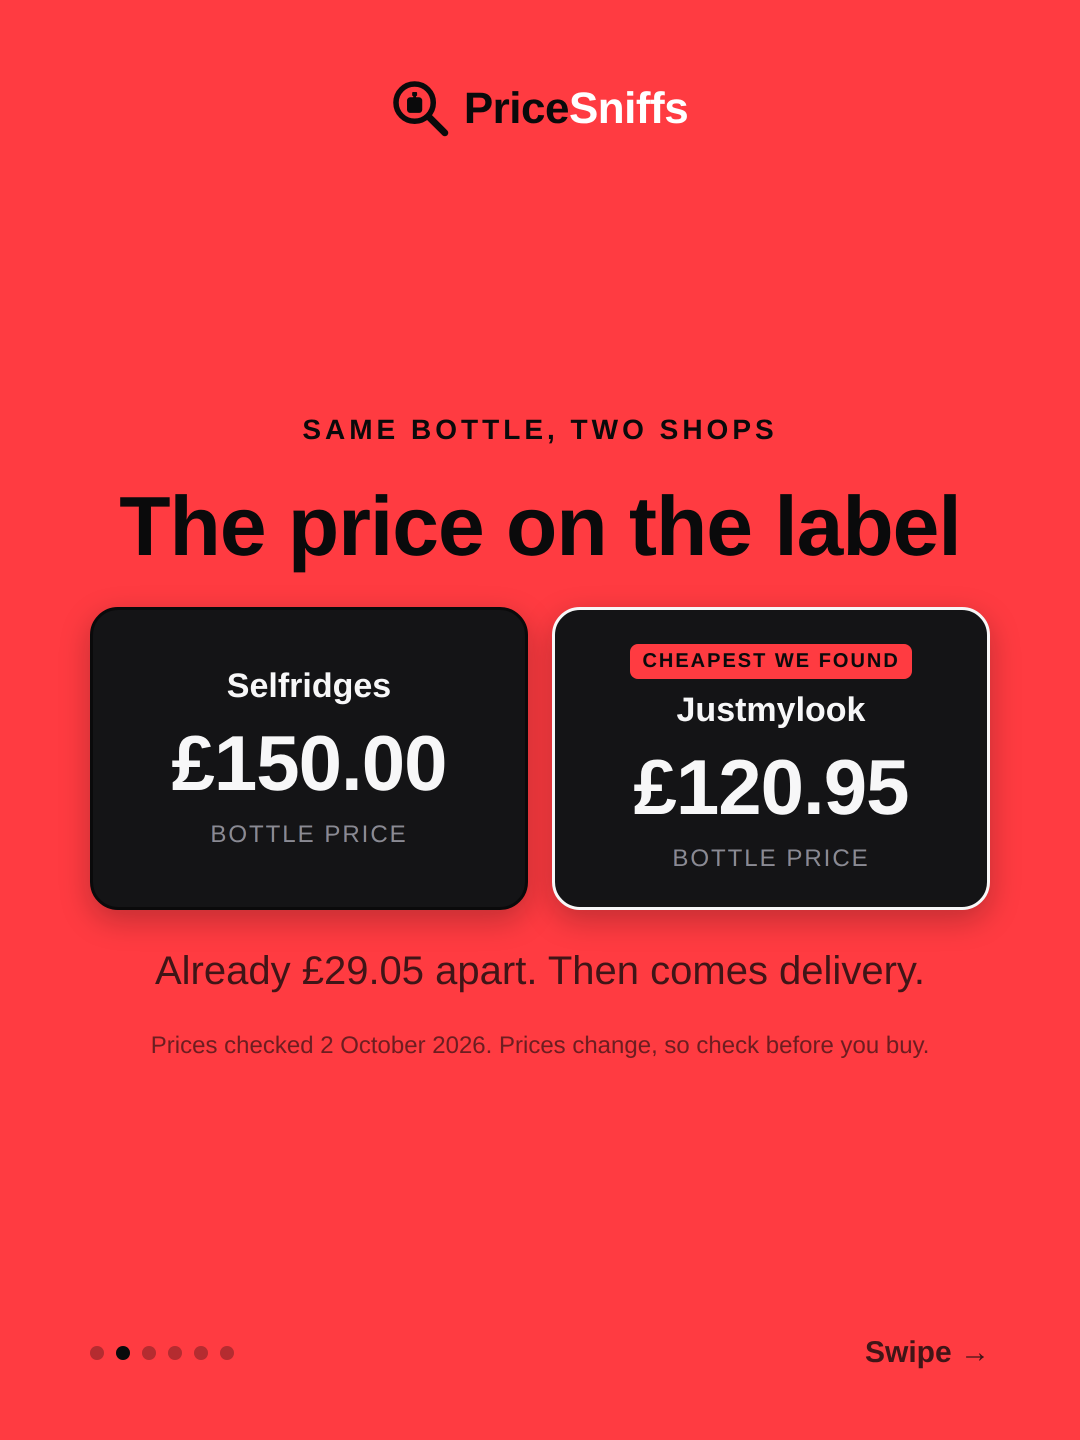
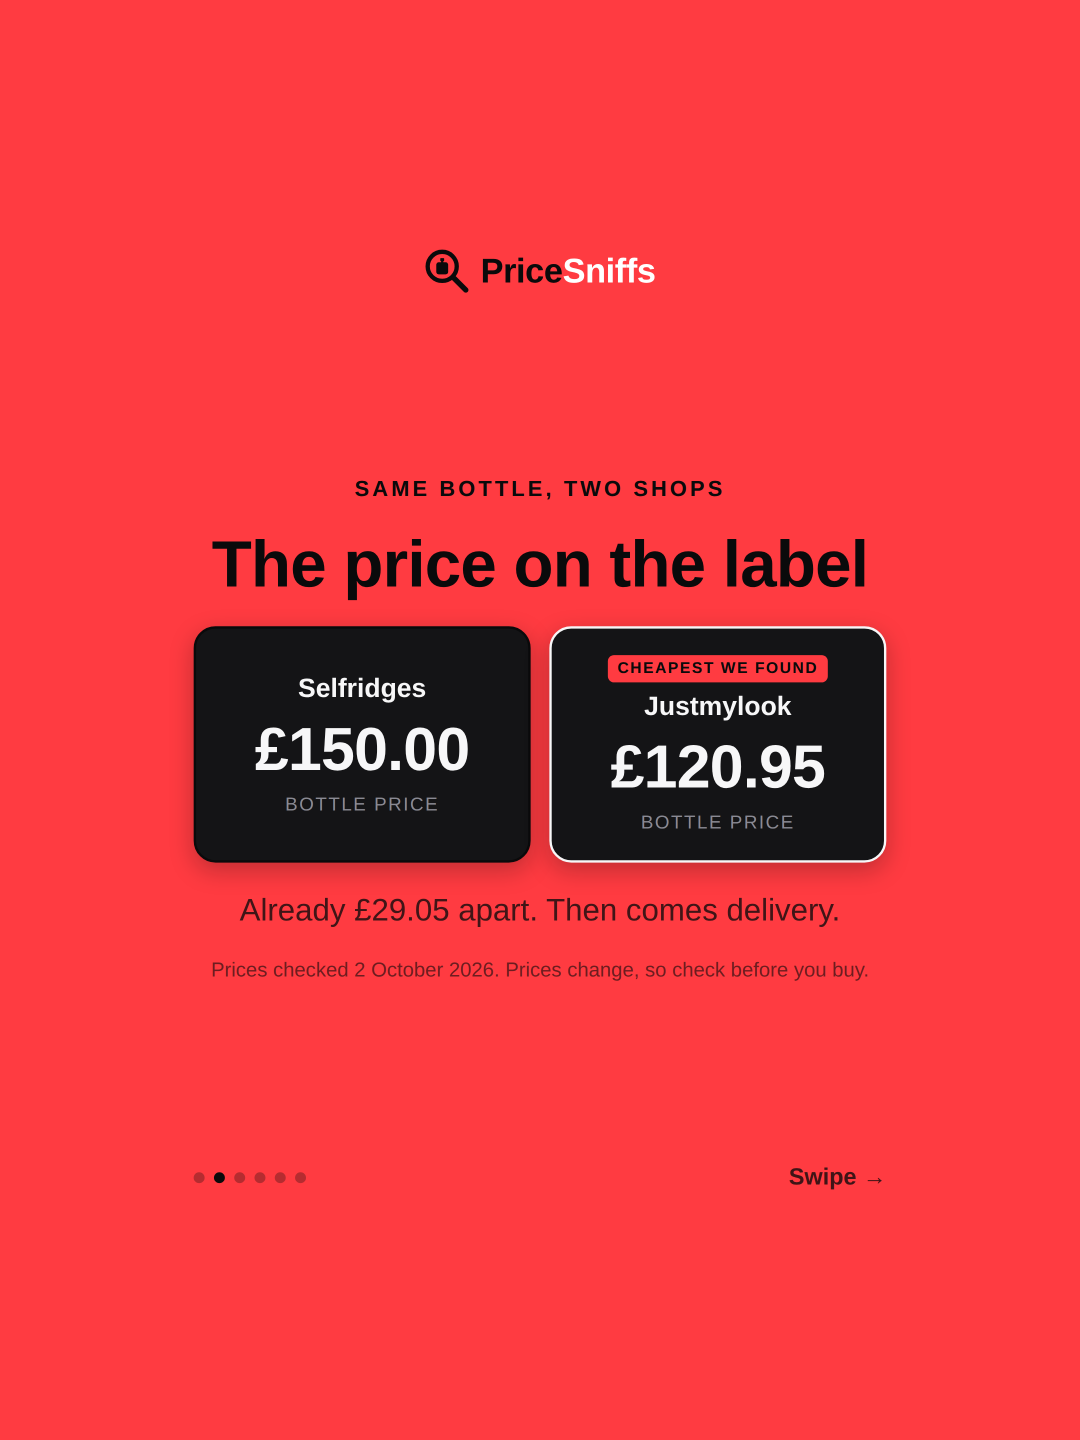
Social: reel safe savings carousels
Everything on a savings slide now sits inside the part of the 3:4 slide
that survives Instagram's crops if the carousel becomes a reel (Edits
fills 9:16 and cuts the sides; the feed shows reels at 4:5). Both savings
carousels (Miss Dior, Creed Acqua Fiorentina) are redrawn this way, and
the Miss Dior script is back so it can be remade.

Claude-Session: https://claude.ai/code/session_01R3frsh37eDNrxM6REtigC8

diff --git a/scripts/social-savings-example.ts b/scripts/social-savings-example.ts
@@ -1,0 +1,156 @@
+/**
+ * "How much could you save?" carousel: one real comparison, six 3:4 feed
+ * slides plus the caption. A one off post, so it uses the INVERTED theme
+ * (social/DESIGN-SYSTEM.md section 1).
+ *
+ * Every figure is a real price from the site's own data on the date below,
+ * read back from each shop's live listing where the shop allows it:
+ *   Justmylook   £120.95, free delivery (over £25), live price confirmed 2 Oct 2026
+ *   Selfridges   £150.00 plus £6.95 standard delivery (free delivery is for paid
+ *                Selfridges+ / Unlocked members only), from the site's last check;
+ *                Selfridges blocks automated reads, so confirm by hand before posting.
+ * The comparison is the two shops PriceSniffs compares, not every UK shop.
+ *
+ *   npx tsx scripts/social-savings-example.ts
+ */
+import { execFileSync } from 'node:child_process';
+import { mkdirSync, writeFileSync } from 'node:fs';
+import { join, resolve } from 'node:path';
+import { launchChromium } from './a11y-audit.js';
+import { renderSmooth } from './socialRender.js';
+import { H, MARK, W, slide } from './socialSlides.js';
+import { resizedPhotoUrl } from '../demo/photo.js';
+
+const ROOT = resolve(import.meta.dirname, '..');
+const DIR = join(ROOT, 'social', 'posts', '2026-10-02-savings-example');
+const TOTAL = 6;
+
+const DEAL = {
+  name: 'Miss Dior Eau de Parfum 100ml',
+  brand: 'Dior',
+  photo: 'https://www.justmylook.com/cdn/shop/files/DIOR0043_3c589c3b-ad80-4c66-b419-086d3af769e6.png?v=1758900971&width=3000',
+  dear: { shop: 'Selfridges', item: 150, delivery: 6.95, deliveryNote: 'Free delivery is for paid members only' },
+  cheap: { shop: 'Justmylook', item: 120.95, delivery: 0, deliveryNote: 'Free delivery over £25' },
+  checked: '2 October 2026',
+};
+const gbp = (n: number) => `£${n.toFixed(2)}`;
+const dearTotal = DEAL.dear.item + DEAL.dear.delivery;
+const cheapTotal = DEAL.cheap.item + DEAL.cheap.delivery;
+const saving = Math.round((dearTotal - cheapTotal) * 100) / 100;
+const percent = Math.round((saving / dearTotal) * 100);
+const year = Math.round(saving * 12 * 100) / 100;
+
+function photoDataUri(url: string): string {
+  const out = execFileSync('curl', ['-sSL', '--max-time', '30', '-w', '\n%{content_type}', resizedPhotoUrl(url, 800) ?? url], { maxBuffer: 64 * 1024 * 1024 });
+  const cut = out.lastIndexOf(0x0a);
+  return `data:${out.subarray(cut + 1).toString().trim()};base64,${out.subarray(0, cut).toString('base64')}`;
+}
+
+const EXTRA = `
+  .photo { width: 440px; height: 440px; border-radius: 36px; background: #FFFFFF; display: flex; align-items: center; justify-content: center; }
+  .photo img { width: 86%; height: 86%; object-fit: contain; }
+  .who { display: flex; flex-direction: column; gap: 10px; }
+  .who .name { margin: 0; font-size: 52px; font-weight: 700; }
+  .who .brand { margin: 0; font-size: 30px; letter-spacing: 4px; text-transform: uppercase; color: var(--ink-2); }
+  .vs { width: 100%; display: flex; gap: 24px; }
+  .shopcard { flex: 1 1 0; min-width: 0; padding: 34px 26px; border-radius: 28px; background: var(--card); border: 3px solid var(--card-line);
+    box-shadow: 0 10px 30px rgba(10,10,11,0.25); color: var(--card-ink); display: flex; flex-direction: column; align-items: center; justify-content: center; gap: 12px; }
+  .shopcard.win { border-color: #F7F7F8; }
+  .shopcard .s { margin: 0; font-size: 34px; font-weight: 700; }
+  .shopcard .p { margin: 0; font-size: 78px; font-weight: 700; letter-spacing: -1px; }
+  .shopcard .l { margin: 0; font-size: 24px; letter-spacing: 2px; text-transform: uppercase; color: var(--card-ink-3); }
+  .shopcard .win-tag { font-size: 20px; font-weight: 700; letter-spacing: 2px; color: #0A0A0B; background: #FF3B41; border-radius: 8px; padding: 6px 12px; }
+  .sum { width: 100%; display: flex; flex-direction: column; gap: 24px; }
+  .sumcard { padding: 28px 34px; border-radius: 28px; background: var(--card); box-shadow: 0 10px 30px rgba(10,10,11,0.25); color: var(--card-ink); text-align: left; }
+  .sumcard.win { outline: 3px solid #F7F7F8; outline-offset: -3px; }
+  .sumcard .s { margin: 0 0 14px; font-size: 34px; font-weight: 700; display: flex; justify-content: space-between; align-items: center; }
+  .line { display: flex; justify-content: space-between; font-size: 32px; color: var(--card-ink-2); margin: 6px 0; }
+  .line.total { color: var(--card-ink); font-weight: 700; font-size: 40px; border-top: 2px solid var(--row-line); padding-top: 12px; margin-top: 12px; }
+  .line .plus { color: #FF3B41; font-weight: 700; }
+  .line .free { color: #4FB47B; font-weight: 700; }
+  .note2 { margin: 6px 0 0; font-size: 24px; color: var(--card-ink-3); }
+  .big { margin: 0; font-size: 200px; font-weight: 700; letter-spacing: -6px; line-height: 1; }
+  .big small { font-size: 0.5em; letter-spacing: -2px; }
+  .lead { margin: 0; font-size: 46px; font-weight: 700; }
+  .fine { margin: 0; font-size: 24px; color: var(--ink-3); }
+  .stack { display: flex; flex-direction: column; align-items: center; gap: 22px; }
+  .pill { padding: 22px 52px; border-radius: 999px; background: var(--pill-bg); color: var(--pill-ink); font-size: 46px; font-weight: 700; }
+  .badge { display: inline-block; padding: 14px 30px; border-radius: 999px; background: #0A0A0B; color: #F7F7F8; font-size: 40px; font-weight: 700; }
+`;
+const fine = `<p class="fine">Prices checked ${DEAL.checked}. Prices change, so check before you buy.</p>`;
+
+async function main() {
+  const photo = photoDataUri(DEAL.photo);
+  const SLIDES = [
+    `<p class="kicker">A real example</p>
+     <h1 data-fit="1,40">How much could you save?</h1>
+     <div class="photo"><img src="${photo}" alt=""></div>
+     <div class="who"><p class="name" data-fit="2,34">${DEAL.name}</p><p class="brand">${DEAL.brand}</p></div>`,
+    `<p class="kicker">Same bottle, two shops</p>
+     <h1 data-fit="1,40">The price on the label</h1>
+     <div class="vs">
+       <div class="shopcard"><p class="s">${DEAL.dear.shop}</p><p class="p" data-fit="1,40">${gbp(DEAL.dear.item)}</p><p class="l">Bottle price</p></div>
+       <div class="shopcard win"><span class="win-tag">CHEAPEST WE FOUND</span><p class="s">${DEAL.cheap.shop}</p><p class="p" data-fit="1,40">${gbp(DEAL.cheap.item)}</p><p class="l">Bottle price</p></div>
+     </div>
+     <p class="sub">Already ${gbp(DEAL.dear.item - DEAL.cheap.item)} apart. Then comes delivery.</p>
+     ${fine}`,
+    `<p class="kicker">Then comes delivery</p>
+     <h1 data-fit="1,40">We add it in for you</h1>
+     <div class="sum">
+       <div class="sumcard"><p class="s">${DEAL.dear.shop}</p>
+         <div class="line"><span>Bottle</span><span>${gbp(DEAL.dear.item)}</span></div>
+         <div class="line"><span>Delivery at checkout</span><span class="plus">+ ${gbp(DEAL.dear.delivery)}</span></div>
+         <div class="line total"><span>You pay</span><span>${gbp(dearTotal)}</span></div>
+         <p class="note2">${DEAL.dear.deliveryNote}</p></div>
+       <div class="sumcard win"><p class="s">${DEAL.cheap.shop}</p>
+         <div class="line"><span>Bottle</span><span>${gbp(DEAL.cheap.item)}</span></div>
+         <div class="line"><span>Delivery</span><span class="free">Free</span></div>
+         <div class="line total"><span>You pay</span><span>${gbp(cheapTotal)}</span></div></div>
+     </div>
+     <p class="sub">PriceSniffs shows the total before you click.</p>`,
+    `<p class="kicker">Your saving on one bottle</p>
+     <div class="stack">
+       <p class="big">${gbp(saving)}</p>
+       <span class="badge">${percent}% less</span>
+       <p class="sub">${gbp(dearTotal)} at ${DEAL.dear.shop}<br>${gbp(cheapTotal)} at ${DEAL.cheap.shop}</p>
+     </div>
+     ${fine}`,
+    `<p class="kicker">Buy one a month</p>
+     <h1 data-fit="1,40">That's a year of savings</h1>
+     <div class="stack">
+       <p class="big">${gbp(year).replace('.00', '')}</p>
+       <p class="lead">saved over 12 months</p>
+       <p class="sub">12 bottles × ${gbp(saving)} saved each</p>
+     </div>
+     <p class="fine">If you bought this bottle every month at today's prices.<br>Prices change, so check before you buy.</p>`,
+    `<p class="kicker">Find your own savings</p>
+     <h1 data-fit="1,40">Search any perfume</h1>
+     ${MARK('big-mark')}
+     <span class="pill">Link in bio</span>`,
+  ];
+  const caption = `How much could you save? 🇬🇧
+
+A real example from today. ${DEAL.name} by ${DEAL.brand} is ${gbp(DEAL.dear.item)} at ${DEAL.dear.shop}, and their standard delivery adds ${gbp(DEAL.dear.delivery)} at checkout, so you pay ${gbp(dearTotal)}. The same bottle is ${gbp(DEAL.cheap.item)} at ${DEAL.cheap.shop} with free delivery.
+
+That is ${gbp(saving)} saved on one bottle, ${percent}% less. Buy one a month at these prices and it adds up to ${gbp(year).replace('.00', '')} in a year.
+
+We show the total with delivery before you click, for more than 30 UK shops. Prices checked ${DEAL.checked} and they change, so check the link in our bio before you buy.
+
+#perfume #fragrance #missdior #perfumedeals #ukdeals #pricesniffs
+`;
+
+  mkdirSync(DIR, { recursive: true });
+  const browser = await launchChromium();
+  for (const [i, inner] of SLIDES.entries()) {
+    const html = slide(i + 1, TOTAL, inner, i + 1 === TOTAL ? '' : i === 0 ? 'Swipe to see &rarr;' : 'Swipe &rarr;', 'inverted', EXTRA, true);
+    const name = `slide-${i + 1}-3x4`;
+    writeFileSync(join(DIR, `${name}.html`), html.replace(photo, DEAL.photo));
+    await renderSmooth(browser, html, W, H, join(DIR, `${name}.png`));
+    console.log(`${name}.png`);
+  }
+  await browser.close();
+  writeFileSync(join(DIR, 'caption.txt'), caption);
+  console.log(`saving ${gbp(saving)} (${percent}%), year ${gbp(year)}`);
+}
+
+await main();

diff --git a/scripts/socialSlides.ts b/scripts/socialSlides.ts
@@ -77,9 +77,27 @@ export const slideCss = (theme: keyof typeof THEMES) => `
   .note { font-size: 20px; color: var(--card-ink-3); letter-spacing: 1px; text-transform: uppercase; }
 `;
 
-export function slide(n: number, total: number, inner: string, footRight: string, theme: keyof typeof THEMES = 'inverted', extraCss = ''): string {
+/**
+ * Reel safe box (social/DESIGN-SYSTEM.md section 4): the part of a 3:4 slide
+ * that survives every crop Instagram applies if the slides are turned into a
+ * reel. Edits fills a 9:16 frame with the slide, keeping the middle 810px of
+ * its width (x 135 to 945); the feed then shows the reel at 4:5 (y 214 to
+ * 1226) and the profile grid at 3:4 (y 180 to 1260). The box sits 15px
+ * inside all of those.
+ */
+export const SAFE = { x: 150, y: 230, w: 780, h: 980 };
+/** How much the slide's layout is scaled down to sit in the safe box. */
+const SAFE_SCALE = 0.78;
+// The padding keeps text clear of the crop edge; small print is set larger
+// so it stays readable after the scale down.
+const safeCss = `main { position: absolute; left: ${SAFE.x}px; top: ${SAFE.y}px; padding: 24px 56px;
+    width: ${Math.round(SAFE.w / SAFE_SCALE)}px; height: ${Math.round(SAFE.h / SAFE_SCALE)}px;
+    transform: scale(${SAFE_SCALE}); transform-origin: 0 0; }
+  main .fine, main .note2 { font-size: 26px; }`;
+
+export function slide(n: number, total: number, inner: string, footRight: string, theme: keyof typeof THEMES = 'inverted', extraCss = '', reelSafe = false): string {
   const dots = Array.from({ length: total }, (_, i) => `<i class="${i + 1 === n ? 'on' : ''}"></i>`).join('');
-  return `<!doctype html><html><head><meta charset="utf-8"><meta name="social-size" content="${W}x${H}"><style>${slideCss(theme)}${extraCss}</style></head><body><main>
+  return `<!doctype html><html><head><meta charset="utf-8"><meta name="social-size" content="${W}x${H}"><style>${slideCss(theme)}${reelSafe ? safeCss : ''}${extraCss}</style></head><body><main>
   <div class="brandline">${MARK('mark')}<span>Price<em>Sniffs</em></span></div>
   <div class="body">${inner}</div>
   <div class="foot"><div class="dots">${dots}</div><span class="swipe">${footRight}</span></div>

diff --git a/social/posts/2026-10-02-savings/slide-1-3x4.html b/social/posts/2026-10-02-savings/slide-1-3x4.html
@@ -40,7 +40,10 @@
   .price .bar { background: var(--bar-best); }
   .row:not(.best) .price .bar { background: var(--bar-rest); }
   .note { font-size: 20px; color: var(--card-ink-3); letter-spacing: 1px; text-transform: uppercase; }
-
+main { position: absolute; left: 150px; top: 230px; padding: 24px 56px;
+    width: 1000px; height: 1256px;
+    transform: scale(0.78); transform-origin: 0 0; }
+  main .fine, main .note2 { font-size: 26px; }
   .photo { width: 440px; height: 440px; border-radius: 36px; background: #FFFFFF; display: flex; align-items: center; justify-content: center; }
   .photo img { width: 86%; height: 86%; object-fit: contain; }
   .who { width: 100%; display: flex; flex-direction: column; gap: 10px; }

diff --git a/social/posts/2026-10-02-savings/slide-2-3x4.html b/social/posts/2026-10-02-savings/slide-2-3x4.html
@@ -40,7 +40,10 @@
   .price .bar { background: var(--bar-best); }
   .row:not(.best) .price .bar { background: var(--bar-rest); }
   .note { font-size: 20px; color: var(--card-ink-3); letter-spacing: 1px; text-transform: uppercase; }
-
+main { position: absolute; left: 150px; top: 230px; padding: 24px 56px;
+    width: 1000px; height: 1256px;
+    transform: scale(0.78); transform-origin: 0 0; }
+  main .fine, main .note2 { font-size: 26px; }
   .photo { width: 440px; height: 440px; border-radius: 36px; background: #FFFFFF; display: flex; align-items: center; justify-content: center; }
   .photo img { width: 86%; height: 86%; object-fit: contain; }
   .who { width: 100%; display: flex; flex-direction: column; gap: 10px; }

diff --git a/social/posts/2026-10-02-savings/slide-3-3x4.html b/social/posts/2026-10-02-savings/slide-3-3x4.html
@@ -40,7 +40,10 @@
   .price .bar { background: var(--bar-best); }
   .row:not(.best) .price .bar { background: var(--bar-rest); }
   .note { font-size: 20px; color: var(--card-ink-3); letter-spacing: 1px; text-transform: uppercase; }
-
+main { position: absolute; left: 150px; top: 230px; padding: 24px 56px;
+    width: 1000px; height: 1256px;
+    transform: scale(0.78); transform-origin: 0 0; }
+  main .fine, main .note2 { font-size: 26px; }
   .photo { width: 440px; height: 440px; border-radius: 36px; background: #FFFFFF; display: flex; align-items: center; justify-content: center; }
   .photo img { width: 86%; height: 86%; object-fit: contain; }
   .who { width: 100%; display: flex; flex-direction: column; gap: 10px; }

diff --git a/social/posts/2026-10-02-savings/slide-4-3x4.html b/social/posts/2026-10-02-savings/slide-4-3x4.html
@@ -40,7 +40,10 @@
   .price .bar { background: var(--bar-best); }
   .row:not(.best) .price .bar { background: var(--bar-rest); }
   .note { font-size: 20px; color: var(--card-ink-3); letter-spacing: 1px; text-transform: uppercase; }
-
+main { position: absolute; left: 150px; top: 230px; padding: 24px 56px;
+    width: 1000px; height: 1256px;
+    transform: scale(0.78); transform-origin: 0 0; }
+  main .fine, main .note2 { font-size: 26px; }
   .photo { width: 440px; height: 440px; border-radius: 36px; background: #FFFFFF; display: flex; align-items: center; justify-content: center; }
   .photo img { width: 86%; height: 86%; object-fit: contain; }
   .who { width: 100%; display: flex; flex-direction: column; gap: 10px; }

diff --git a/social/posts/2026-10-02-savings/slide-5-3x4.html b/social/posts/2026-10-02-savings/slide-5-3x4.html
@@ -40,7 +40,10 @@
   .price .bar { background: var(--bar-best); }
   .row:not(.best) .price .bar { background: var(--bar-rest); }
   .note { font-size: 20px; color: var(--card-ink-3); letter-spacing: 1px; text-transform: uppercase; }
-
+main { position: absolute; left: 150px; top: 230px; padding: 24px 56px;
+    width: 1000px; height: 1256px;
+    transform: scale(0.78); transform-origin: 0 0; }
+  main .fine, main .note2 { font-size: 26px; }
   .photo { width: 440px; height: 440px; border-radius: 36px; background: #FFFFFF; display: flex; align-items: center; justify-content: center; }
   .photo img { width: 86%; height: 86%; object-fit: contain; }
   .who { width: 100%; display: flex; flex-direction: column; gap: 10px; }

diff --git a/social/posts/2026-10-02-savings/slide-6-3x4.html b/social/posts/2026-10-02-savings/slide-6-3x4.html
@@ -40,7 +40,10 @@
   .price .bar { background: var(--bar-best); }
   .row:not(.best) .price .bar { background: var(--bar-rest); }
   .note { font-size: 20px; color: var(--card-ink-3); letter-spacing: 1px; text-transform: uppercase; }
-
+main { position: absolute; left: 150px; top: 230px; padding: 24px 56px;
+    width: 1000px; height: 1256px;
+    transform: scale(0.78); transform-origin: 0 0; }
+  main .fine, main .note2 { font-size: 26px; }
   .photo { width: 440px; height: 440px; border-radius: 36px; background: #FFFFFF; display: flex; align-items: center; justify-content: center; }
   .photo img { width: 86%; height: 86%; object-fit: contain; }
   .who { width: 100%; display: flex; flex-direction: column; gap: 10px; }

diff --git a/social/posts/2026-10-02-savings-example/slide-1-3x4.html b/social/posts/2026-10-02-savings-example/slide-1-3x4.html
@@ -40,7 +40,10 @@
   .price .bar { background: var(--bar-best); }
   .row:not(.best) .price .bar { background: var(--bar-rest); }
   .note { font-size: 20px; color: var(--card-ink-3); letter-spacing: 1px; text-transform: uppercase; }
-
+main { position: absolute; left: 150px; top: 230px; padding: 24px 56px;
+    width: 1000px; height: 1256px;
+    transform: scale(0.78); transform-origin: 0 0; }
+  main .fine, main .note2 { font-size: 26px; }
   .photo { width: 440px; height: 440px; border-radius: 36px; background: #FFFFFF; display: flex; align-items: center; justify-content: center; }
   .photo img { width: 86%; height: 86%; object-fit: contain; }
   .who { display: flex; flex-direction: column; gap: 10px; }

diff --git a/social/posts/2026-10-02-savings-example/slide-2-3x4.html b/social/posts/2026-10-02-savings-example/slide-2-3x4.html
@@ -40,7 +40,10 @@
   .price .bar { background: var(--bar-best); }
   .row:not(.best) .price .bar { background: var(--bar-rest); }
   .note { font-size: 20px; color: var(--card-ink-3); letter-spacing: 1px; text-transform: uppercase; }
-
+main { position: absolute; left: 150px; top: 230px; padding: 24px 56px;
+    width: 1000px; height: 1256px;
+    transform: scale(0.78); transform-origin: 0 0; }
+  main .fine, main .note2 { font-size: 26px; }
   .photo { width: 440px; height: 440px; border-radius: 36px; background: #FFFFFF; display: flex; align-items: center; justify-content: center; }
   .photo img { width: 86%; height: 86%; object-fit: contain; }
   .who { display: flex; flex-direction: column; gap: 10px; }

diff --git a/social/posts/2026-10-02-savings-example/slide-3-3x4.html b/social/posts/2026-10-02-savings-example/slide-3-3x4.html
@@ -40,7 +40,10 @@
   .price .bar { background: var(--bar-best); }
   .row:not(.best) .price .bar { background: var(--bar-rest); }
   .note { font-size: 20px; color: var(--card-ink-3); letter-spacing: 1px; text-transform: uppercase; }
-
+main { position: absolute; left: 150px; top: 230px; padding: 24px 56px;
+    width: 1000px; height: 1256px;
+    transform: scale(0.78); transform-origin: 0 0; }
+  main .fine, main .note2 { font-size: 26px; }
   .photo { width: 440px; height: 440px; border-radius: 36px; background: #FFFFFF; display: flex; align-items: center; justify-content: center; }
   .photo img { width: 86%; height: 86%; object-fit: contain; }
   .who { display: flex; flex-direction: column; gap: 10px; }

diff --git a/social/posts/2026-10-02-savings-example/slide-4-3x4.html b/social/posts/2026-10-02-savings-example/slide-4-3x4.html
@@ -40,7 +40,10 @@
   .price .bar { background: var(--bar-best); }
   .row:not(.best) .price .bar { background: var(--bar-rest); }
   .note { font-size: 20px; color: var(--card-ink-3); letter-spacing: 1px; text-transform: uppercase; }
-
+main { position: absolute; left: 150px; top: 230px; padding: 24px 56px;
+    width: 1000px; height: 1256px;
+    transform: scale(0.78); transform-origin: 0 0; }
+  main .fine, main .note2 { font-size: 26px; }
   .photo { width: 440px; height: 440px; border-radius: 36px; background: #FFFFFF; display: flex; align-items: center; justify-content: center; }
   .photo img { width: 86%; height: 86%; object-fit: contain; }
   .who { display: flex; flex-direction: column; gap: 10px; }
